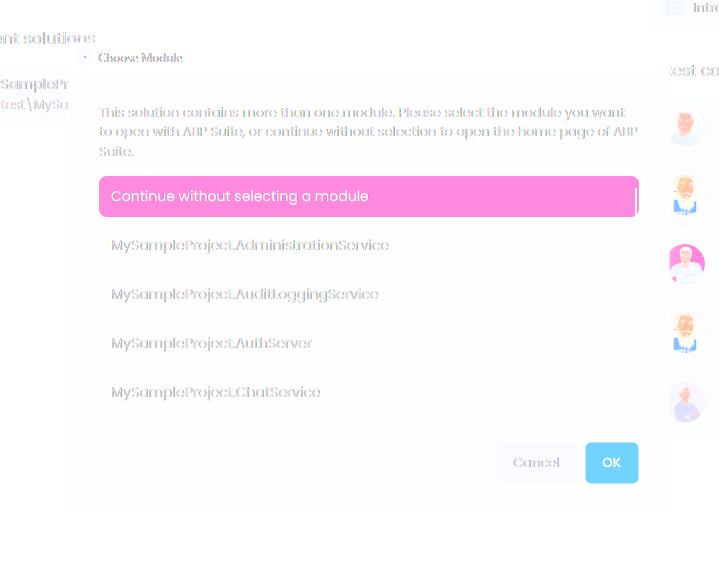
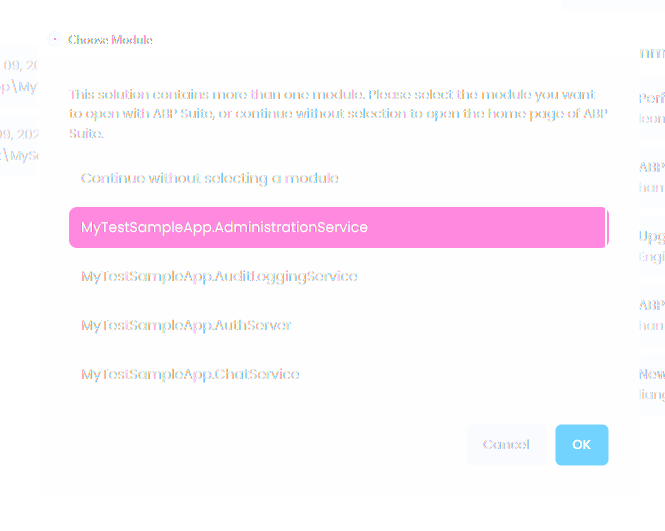
Update images

diff --git a/en/studio/working-with-suite.md b/en/studio/working-with-suite.md
@@ -18,6 +18,8 @@ If There are more than one module which is openable via Suite, Studio will ask y
 
 
 
+![suite-open-with-module](./images/suite/suite-open-with-module.png)
+
 ### Opening from context menu
 
 Alternatively, you can right click to a module in `Solution Explorer` and click `ABP Suite` to open it with Suite. Suite will automatically open `Crud Page Generation` screen with the selected module.
